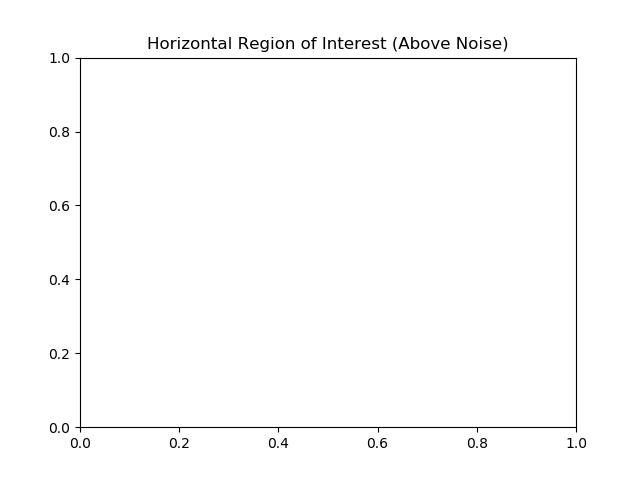
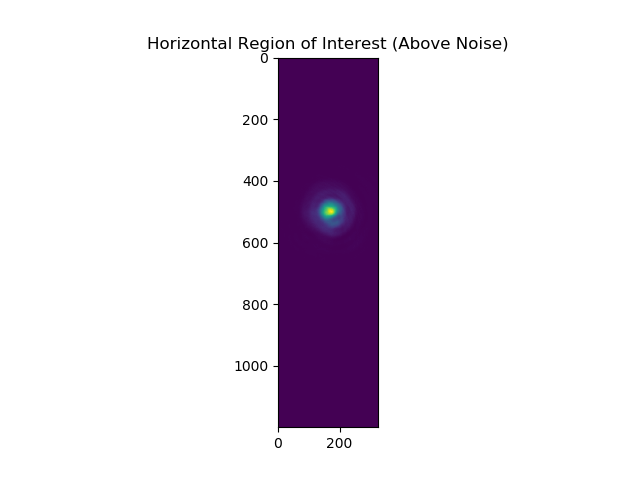
some updated stuff

diff --git a/src/find_gaussian_profile.py b/src/find_gaussian_profile.py
@@ -4,6 +4,7 @@ import cv2
 import matplotlib.pyplot as plt
 from astropy import modeling
 from scipy.optimize import curve_fit
+from lmfit import Model
 
 def gaussian_distribution(x, mu, sigma, coefficient):
     """
@@ -18,8 +19,9 @@ def gaussian_distribution(x, mu, sigma, coefficient):
     Returns:
         distribution: An array of y-values that correspond to the input parameters.
     """
-    distribution = coefficient*np.exp(-(x-mu)**2/(2*sigma**2))
-    return distribution
+    #distribution = coefficient*np.exp(-(x-mu)**2/(2*sigma**2))
+    return coefficient * np.exp(-(x-mu)**2/(2.0*sigma**2))
+    #return distribution
 
 
 def read_image_from_file(image_path, file_bit_depth=16, original_bit_depth=12):
@@ -93,17 +95,17 @@ def crop_surrounding_noise(image, maximum_coords, upper_limit_noise=10):
 
     fig_a, ax = plt.subplots()
     ax.title.set_text('Original Image')
-    #ax.imshow(image)
+    ax.imshow(image)
     fig_a.savefig("Original_Image.png")
 
     fig_b, bx = plt.subplots()
     bx.title.set_text('Horizontal Region of Interest (Above Noise)')
-    #bx.imshow(image[:, index_of_1st_pixel_above_noise_limit_h:index_of_last_pixel_above_noise_limit_flo_h])
+    bx.imshow(image[:, index_of_1st_pixel_above_noise_limit_h:index_of_last_pixel_above_noise_limit_flo_h])
     fig_b.savefig("Region_of_Interest_Horizontal.png")
 
     fig_c, cx = plt.subplots()
     cx.title.set_text('Horizontal & Vertical Region of Interest (Above Noise)')
-    #cx.imshow(image[index_of_1st_pixel_above_noise_limit_v:index_of_last_pixel_above_noise_limit_flo_v, index_of_1st_pixel_above_noise_limit_h:index_of_last_pixel_above_noise_limit_flo_h])
+    cx.imshow(image[index_of_1st_pixel_above_noise_limit_v:index_of_last_pixel_above_noise_limit_flo_v, index_of_1st_pixel_above_noise_limit_h:index_of_last_pixel_above_noise_limit_flo_h])
     fig_c.savefig("Region_of_Interest_Horizontal_Vertical.png")
     plt.close('all')
     return image[index_of_1st_pixel_above_noise_limit_v:index_of_last_pixel_above_noise_limit_flo_v, index_of_1st_pixel_above_noise_limit_h:index_of_last_pixel_above_noise_limit_flo_h]
@@ -121,9 +123,16 @@ def plot_horizonal_lineout_intensity(image, coordinates):
         (np.ndarray, np.ndarray): A tuple equal to (indices, intensity values). Both components as a np.ndarray
     """
     print("Image Shape: ", image.shape)
+    fig_c, cx = plt.subplots()
+    cx.title.set_text('Horizontal & Vertical Region of Interest (Above Noise)')
+    cx.imshow(image)
+    fig_c.savefig("abc.png")
+    plt.close('all')
+    cv2.imshow("what we are plotting", image)
     x_max, y_max = coordinates
     print("Maxima at: ", (x_max, y_max))
     lineout = np.asarray(image[x_max:x_max+1, :])[0]
+    #lineout = np.asarray(image[:, y_max:y_max+1])[0]
     indices = np.arange(0, len(lineout))
     print("Lineout Shape: ", lineout.shape)
     plt.plot(indices, lineout)
@@ -131,16 +140,107 @@ def plot_horizonal_lineout_intensity(image, coordinates):
     #plt.show()
     plt.close('all')
     return indices, lineout
+def calc_reduced_chi_square(fit, x, y, yerr, N, n_free):
+    '''
+    fit (array) values for the fit
+    x,y,yerr (arrays) data
+    N total number of points
+    n_free number of parameters we are fitting
+    '''
+    return 1.0/(N-n_free)*sum(((fit - y)/yerr)**2)
+
+
+def gaussian(x, amp, cen, wid):
+    """1-d gaussian: gaussian(x, amp, cen, wid)"""
+    return (amp / (np.sqrt(2*np.pi) * wid)) * np.exp(-(x-cen)**2 / (2*wid**2))
+def chi2(y_measure,y_predict,errors):
+    """Calculate the chi squared value given a measurement with errors and prediction"""
+    return np.sum( (y_measure - y_predict)**2 / errors**2 )
+
+def chi2reduced(y_measure, y_predict, errors, number_of_parameters):
+    """Calculate the reduced chi squared value given a measurement with errors and prediction,
+    and knowing the number of parameters in the model."""
+    return chi2(y_measure, y_predict, errors)/(y_measure.size - number_of_parameters)
+
 
 def fit_function(x_coords, y_coords):
+    """
+
+
     fitter = modeling.fitting.LevMarLSQFitter()
     model = modeling.models.Gaussian1D()   # depending on the data you need to give some initial values
     fitted_model = fitter(model, x_coords, y_coords)
     fig = plt.figure()
     plt.plot(x_coords, y_coords)
     plt.plot(x_coords, fitted_model(x_coords))
+    plt.title("Astropy Fit - ./coregistration/cam_b_frame_186.png")
     plt.show()
     fig.savefig('Fit.png')
+
+    plt.close('all')
+    print("Astropy Parameters")
+    cov_diag = np.diag(fitter.fit_info['param_cov'])
+    print('Amplitude: {} +\- {}'.format(fitted_model.amplitude.value, np.sqrt(cov_diag[0])))
+    print('Mean: {} +\- {}'.format(fitted_model.mean.value, np.sqrt(cov_diag[1])))
+    print('Standard Deviation: {} +\- {}'.format(fitted_model.stddev.value, np.sqrt(cov_diag[2])))
+    #scipy stuff
+
+    reduced_chi_squared = calc_reduced_chi_square(fitted_model(x_coords), x_coords, y_coords, np.ones(len(x_coords)), len(x_coords), 3)
+    print('Reduced Chi Squared using astropy.modeling: {}'.format(reduced_chi_squared))
+
+        #model_gauss = models.Gaussian1D()
+    #fitter_gauss = fitting.LevMarLSQFitter()
+    sigma = 1
+    y2_err = np.ones(len(x_coords)) * sigma
+    popt, pcov = curve_fit(gaussian_distribution, x_coords, y_coords)
+    a, b, c = pcov
+    best_fit_gauss_2 = np.asarray([gaussian_distribution(x, a, b, c) for x in x_coords])
+
+    print("Scipy Optimize Curve Fit Parameters")
+    print('Mean: {} +\- {}'.format(popt[0], np.sqrt(pcov[0, 0])))
+    print('Standard Deviation: {} +\- {}'.format(popt[1], np.sqrt(pcov[1, 1])))
+    print('Amplitude: {} +\- {}'.format(popt[2], np.sqrt(pcov[2, 2])))
+    yEXP = gaussian_distribution(x_coords, *popt)
+
+    reduced_chi_squared = calc_reduced_chi_square(best_fit_gauss_2, x_coords, y_coords, y2_err, len(x_coords), 3)
+    print('Reduced Chi Squared using scipy: {}'.format(reduced_chi_squared))
+
+    fig2 = plt.figure()
+    plt.plot(x_coords, y_coords, label='Data', marker='o')
+    plt.plot(x_coords, yEXP, 'r-', ls='--', label="Exp Fit")
+    plt.title("Scipy Optimize Fit - ./coregistration/cam_b_frame_186.png")
+    plt.legend()
+    plt.show()
+    """
+
+    # Create the artificial dataset
+    nobs = int(T/dt + 1.5)
+    t = dt*np.arange(nobs)
+    N = f(t,N0,tau)
+    Nfluct = stdev*np.random.normal(size=nobs)
+    N = N + Nfluct
+    sig = np.zeros(nobs) + stdev
+
+    # Fit the curve
+    start = (1100, 90)
+    popt, pcov = curve_fit(f,t,N,sigma = sig,p0 = start,absolute_sigma=True)
+    print(popt)
+    print(pcov)
+
+    # Compute chi square
+    Nexp = f(t, *popt)
+    r = N - Nexp
+    chisq = np.sum((r/stdev)**2)
+    df = nobs - 2
+    print(“chisq =”,chisq,”df =”,df)
+
+    # Plot the data with error bars along with the fit result
+    import matplotlib.pyplot as plt
+    plt.errorbar(t, N, yerr=sig, fmt = 'o', label='"data"')
+    plt.plot(t, Nexp, label='fit')
+    plt.legend()
+    plt.show()
+
 
 
 img = read_image_from_file("./coregistration/cam_b_frame_186.png")
